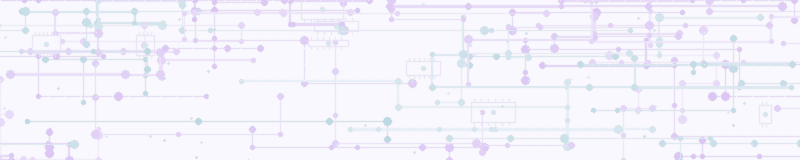
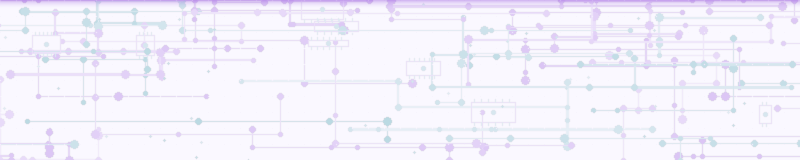
feat: neon fringe glow at top of toolbar/active tab
Bright purple gradient at the top of the toolbar image fades into
the circuit traces below. Since the toolbar image extends into the
active tab, this creates a glowing neon edge at the top of the
active tab shape.

Changed region(s): [[0.0, 0.0, 1.0, 0.0312]]

diff --git a/scripts/generate_chrome_themes.py b/scripts/generate_chrome_themes.py
@@ -1060,7 +1060,6 @@ def generate_toolbar_image(v, width=800, height=160):
         for j in range(len(points) - 1):
             draw.line([points[j], points[j + 1]], fill=line_color, width=lw)
 
-        # Nodes at every junction
         node_color = color + (max(20, min(85, alpha + 18)),)
         for px, py in points:
             r = random.choice([2, 2, 3, 3, 4])
@@ -1102,6 +1101,24 @@ def generate_toolbar_image(v, width=800, height=160):
 
     img_rgba = img.convert("RGBA")
     img_rgba = Image.alpha_composite(img_rgba, trace_layer)
+
+    # Neon fringe at the top — this becomes the active tab's top edge glow.
+    # Bright accent line that fades into the circuit pattern below.
+    glow_layer = Image.new("RGBA", (width, height), (0, 0, 0, 0))
+    glow_draw = ImageDraw.Draw(glow_layer)
+
+    fringe_height = 18 if is_dark else 10
+    peak_alpha = 140 if is_dark else 80
+
+    for y in range(fringe_height):
+        t = y / fringe_height
+        # Bright line at y=0, quadratic fade below
+        a = int(peak_alpha * (1 - t) ** 2.5)
+        if a > 0:
+            glow_draw.line([(0, y), (width, y)], fill=accent + (a,))
+
+    img_rgba = Image.alpha_composite(img_rgba, glow_layer)
+
     return img_rgba.convert("RGB")
 
 
